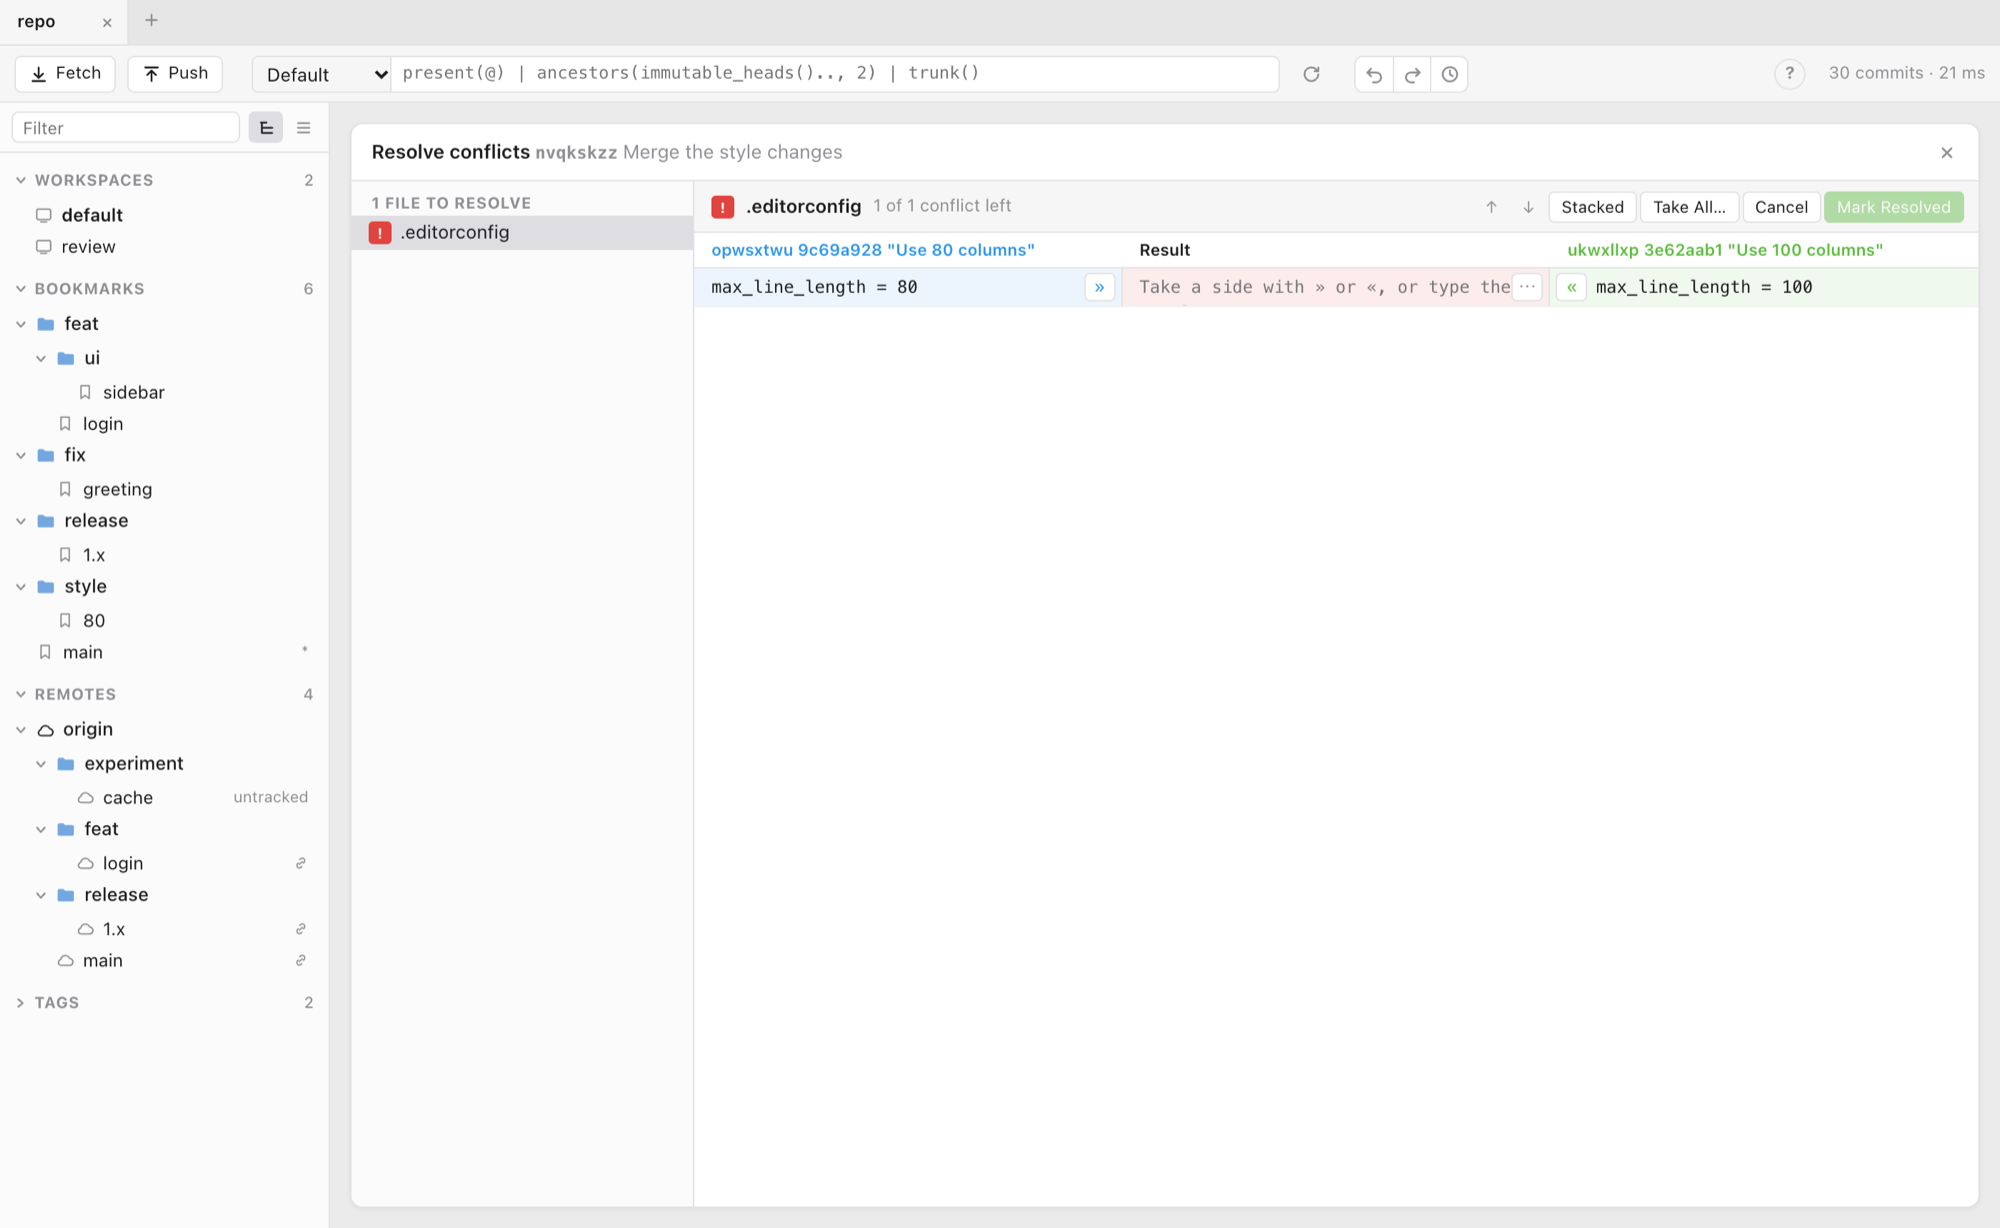
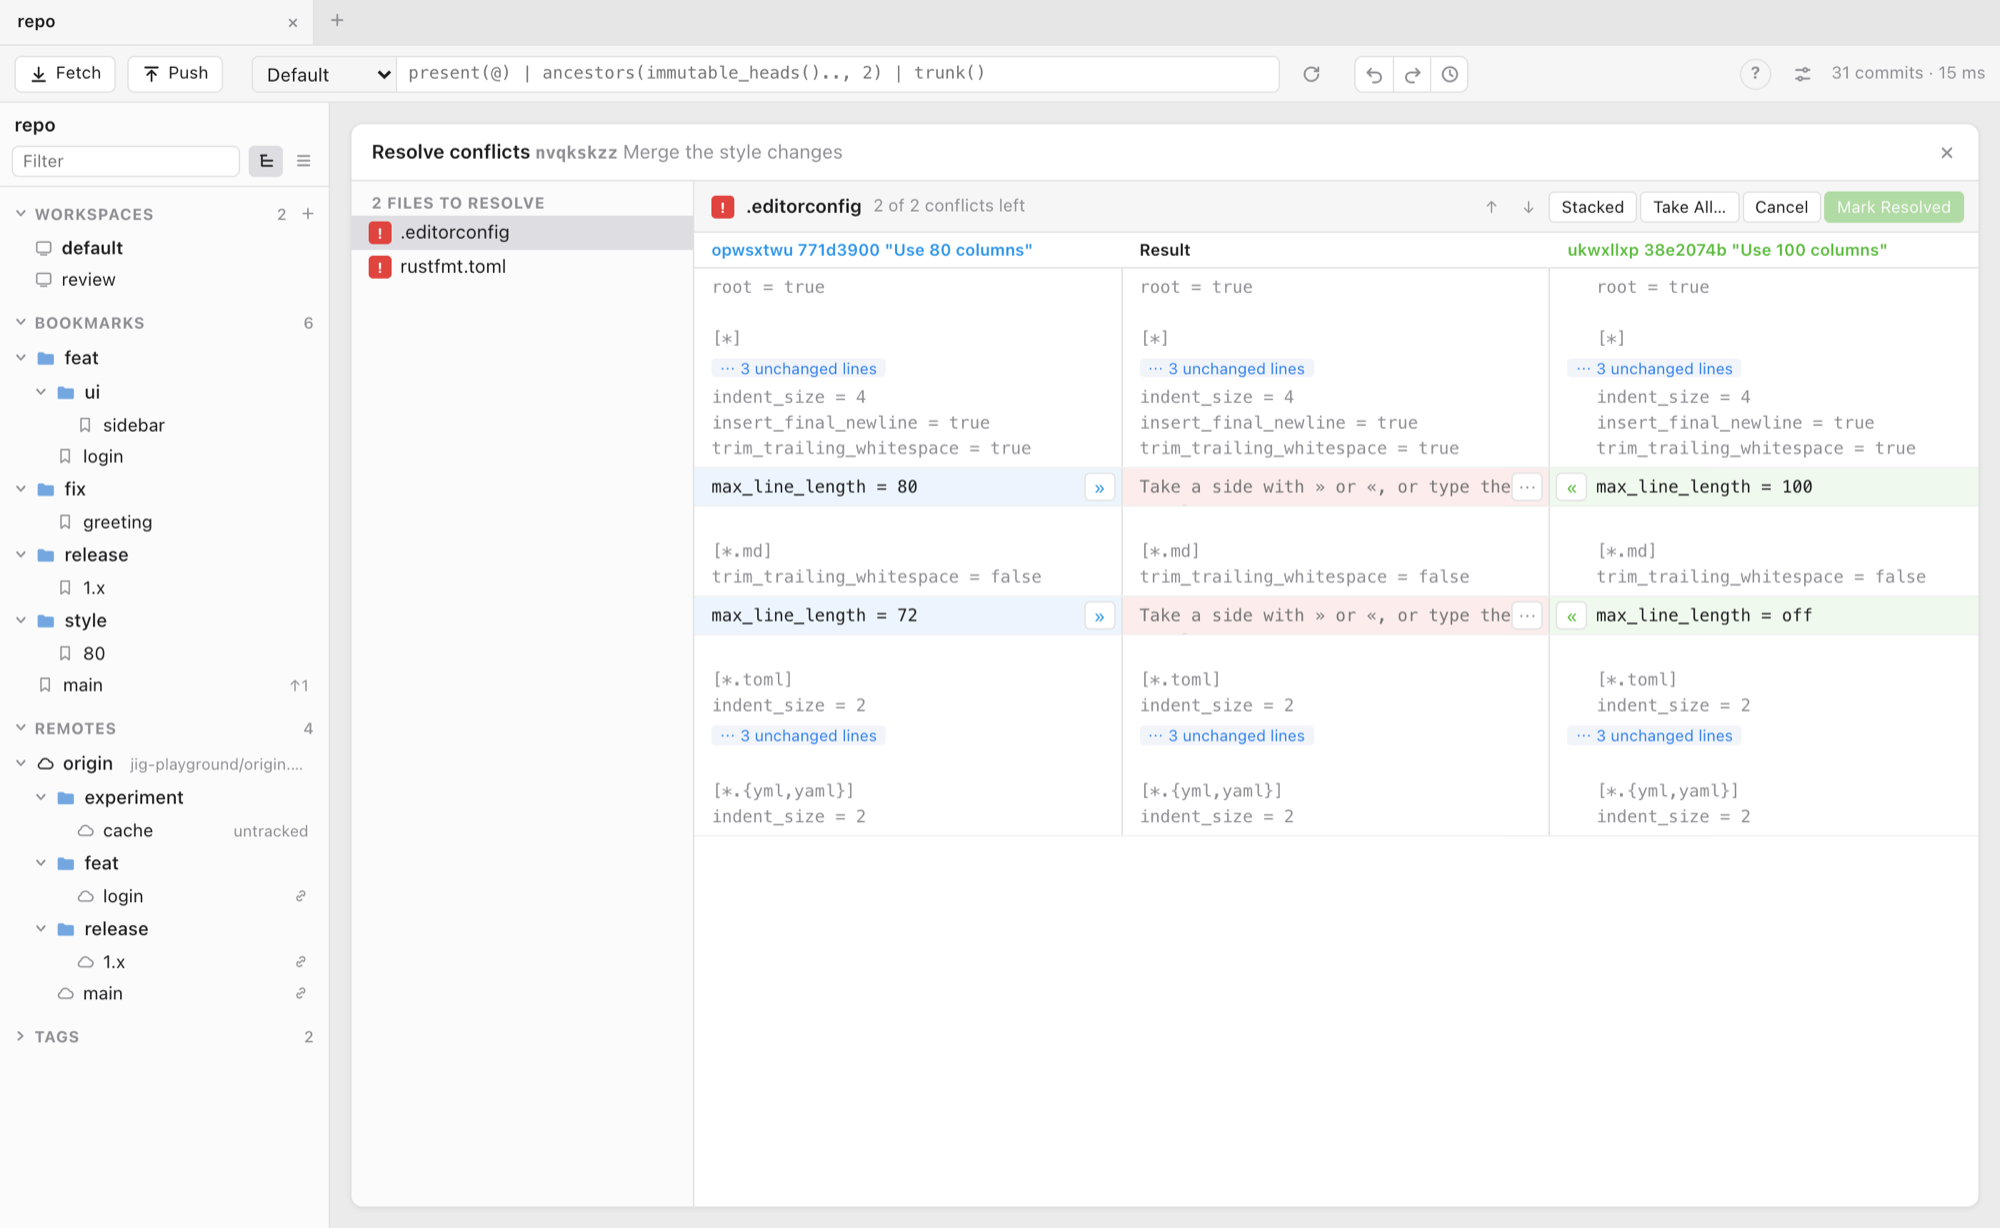
docs: update screenshots and developer docs

diff --git a/DEVELOPMENT.md b/DEVELOPMENT.md
@@ -1,24 +1,30 @@
 # Development
 
+Jig is developed and released on macOS. The backend keeps its macOS-only pieces (the Dock menu, opening folders from Finder) behind `cfg(target_os = "macos")`, so it should build on Linux and Windows too, but those builds aren't tested.
+
 ## Prerequisites
 
 - Rust (2024 edition) and Node
 - `jj` 0.40 — `jj-lib` and `jj-cli` are pinned to the installed CLI so on-disk repo formats agree
+- Tauri's system dependencies for your platform; see [Tauri's prerequisites](https://v2.tauri.app/start/prerequisites/)
+  - **macOS:** the Xcode Command Line Tools
+  - **Linux:** WebKitGTK 4.1 and friends, e.g. on Debian/Ubuntu `libwebkit2gtk-4.1-dev build-essential curl wget file libxdo-dev libssl-dev libayatana-appindicator3-dev librsvg2-dev`
+  - **Windows:** the Microsoft C++ Build Tools and WebView2 (already installed on Windows 10 1803+ and 11)
 
 ## Layout
 
 - `src/` — the frontend, in Svelte 5 and TypeScript, built with Vite; see [Frontend](#frontend)
 - `src-tauri/src/` — Rust backend: log loading and lane layout (`repo.rs`, `layout.rs`), diffs (`diff.rs`), conflicts (`conflict.rs`), and repository changes run through the user's `jj` (`jj_cli.rs`)
 - `src-tauri/examples/` — `fixture` and `dump` helpers for working without the app
-- `scripts/` — playground repo, benchmark and screenshot helpers
+- `scripts/` — playground repo, benchmark and screenshot helpers. These are macOS only for now.
 
 ## Frontend
 
 - Components are in `src/components/`. `App.svelte` is the window and its tabs, `RepoView.svelte` one repository, with `Sidebar`, `Details`, `OpLog`, `Resolve` and the dialogs under them.
-- State and commands live in classes in `.svelte.ts` files, which components read: `Repo` (`repo.svelte.ts`) for a repository, `DetailsPanel` (`details.svelte.ts`) for the details panel, and the tabs in `tabs.svelte.ts`. Their fields are `$state`, so changing one redraws what shows it.
-- Data from the backend (logs, diffs, trees) is `$state.raw`: it's replaced whole, never changed in place, so Svelte doesn't make it deeply reactive. That matters on large repos.
+- State and commands live in classes in `.svelte.ts` files, which components read: `Repo` (`repo.svelte.ts`) for a repository, `DetailsPanel` (`details.svelte.ts`) for the details panel, and the tabs in `tabs.svelte.ts`.
+- Data from the backend (logs, diffs, trees) is `$state.raw`: it's replaced whole, never changed in place, so Svelte doesn't make it deeply reactive.
 - Two hot paths aren't components, and are drawn directly into an element: the graph's rows (`rows.ts` and `graph.ts`, drawn by `Repo`, only those in view) and the lines of a diff or file (`diffview.ts`, drawn by `VirtualLines` in `virtual.ts`). They build markup as strings, so every piece of text from a repository goes through `escapeHtml` (`format.ts`); for new string-built markup, prefer the `html` template in `html.ts`, which escapes what's interpolated, with `setHtml`. Run the [benchmark](#benchmark) before and after changing them.
-- Styles are global, in `src/styles.css`; components use its class names.
+- Styles are global, in `src/styles.css`; components use its class names. This will be refactored later.
 - `npm run check` runs `svelte-check`; `npm run build` runs it too and fails on warnings.
 
 ## Running the app
@@ -31,13 +37,19 @@ npm install
 npm run tauri dev
 ```
 
-Jig opens a folder macOS hands it (`open -a`, a Dock drop), then the repo given as its first argument, then `$JIG_REPO`, then the current directory. Under `tauri dev` the environment variable is easiest:
+If you want to open a repo by default you can set a development repo path variable (in PowerShell, `$env:JIG_REPO="C:\path\to\repo"` first):
 
 ```bash
 JIG_REPO=/path/to/repo npm run tauri dev
 ```
 
-Build the `.app` and `.dmg` (in `src-tauri/target/release/bundle/`) for a release with:
+## Release builds
+
+Bundles are written to `src-tauri/target/release/bundle/`.
+
+### macOS
+
+`tauri.conf.json` sets the bundle targets to `app` and `dmg`, so this builds the `.app` and `.dmg`:
 
 ```bash
 npm run tauri build
@@ -52,6 +64,20 @@ CI=true npm run tauri build
 If a build is interrupted, its image can stay mounted and break the next one; `hdiutil info` lists it and `hdiutil detach` ejects it.
 
 `bundle.macOS.signingIdentity` is `"-"` so the bundle gets an ad-hoc signature carrying its identifier, `dev.wcrd.jig`. Without it the app only has the linker's signature, whose identifier is `jig-<hash>`. macOS then never matches the app to its Local Network permission, and fetches and pushes to remotes on the LAN fail with "No route to host".
+
+### Linux and Windows
+
+The configured targets are macOS-only, so name the bundles to build instead. On Linux:
+
+```bash
+npm run tauri build -- --bundles deb,appimage
+```
+
+On Windows (`msi` needs the WiX Toolset; `nsis` doesn't):
+
+```bash
+npm run tauri build -- --bundles nsis
+```
 
 ## Playground repo
 
@@ -95,14 +121,14 @@ Then run it before and after a change and compare the medians it prints:
 node scripts/bench.mjs --runs 5 --label before --out before.json
 ```
 
-Chrome isn't the WebKit view the app runs in, so treat the numbers as relative.
+Chrome isn't the webview the app runs in (WebKit on macOS and Linux, WebView2 on Windows), so treat the numbers as relative.
 
 ## Screenshots
 
 The README screenshots come from the browser preview with the playground fixture, captured by headless Chrome. With `npm run dev` running:
 
 ```bash
-node scripts/screenshots.mjs docs/screenshots light '[{"click":"*","text":"Sidebar: add items"},{"click":".file-list .tree-row.file","text":"sidebar.rs"},{"shot":"main"},{"click":"*","text":"Merge the style changes"},{"click":"button","text":"Resolve…"},{"wait":500},{"shot":"resolve"},{"eval":"document.dispatchEvent(new KeyboardEvent(\"keydown\",{key:\"Escape\",bubbles:true}))"},{"click":"[data-ref=oplog-button]"},{"wait":500},{"shot":"oplog"}]'
+node scripts/screenshots.mjs docs/screenshots light '[{"click":"*","text":"Sidebar: add items"},{"click":".file-list .tree-row.file","text":"sidebar.rs"},{"shot":"main"},{"click":"*","text":"lock out repeated failures"},{"click":"[data-action=tree]"},{"click":".file-list .tree-row.file","text":"login.rs"},{"click":"[data-ref=full-diff-enter]"},{"wait":500},{"shot":"diff"},{"eval":"document.dispatchEvent(new KeyboardEvent(\"keydown\",{key:\"Escape\",bubbles:true}))"},{"click":"*","text":"Merge the style changes"},{"click":"button","text":"Resolve…"},{"wait":500},{"shot":"resolve"},{"eval":"document.dispatchEvent(new KeyboardEvent(\"keydown\",{key:\"Escape\",bubbles:true}))"},{"click":"[data-ref=oplog-button]"},{"wait":500},{"shot":"oplog"}]'
 ```
 
 Shots are 2× scale (2800×1720); the committed copies are downscaled to 2000px wide with `sips -Z 2000`.

diff --git a/README.md b/README.md
@@ -9,8 +9,8 @@ Inspired by `jjui` and `Fork (git)`.
 ### Why Jig
 
 For 90% of my `jj` workflows `jjui` is my go to tool. But there are two things that it doesn't do for me:
-1. Sometimes when I'm working on multiple workspaces / branches I just need to ***see*** the graph visually and interactively
-2. I still suck at resolving conflicts; this tool provides a nice merge gui
+1. Sometimes when I'm working on multiple workspaces / branches I just need to ***see*** the full graph visually and interactively
+2. I still suck at resolving conflicts; this tool provides a nice conflict resolution GUI
 
 While I built this for the 2 reasons above, `jig` also supports most of the other `jj` operations and uses the same keybindings as `jjui`.
 
@@ -37,9 +37,17 @@ While I built this for the 2 reasons above, `jig` also supports most of the othe
 
 ![Operation log](docs/screenshots/oplog.png)
 
-## Install
+### Full-size diff
 
-Download the `.dmg` from the [latest release](../../releases/latest) and drag Jig to Applications. Jig runs repository changes through your `jj`, so it needs `jj` 0.40 on your `PATH`.
+Press `d` on the Changes tab to fill the window with the diff. `↑` / `↓` step through files, `j` / `k` through commits, and `Esc` goes back.
+
+![Full-size diff](docs/screenshots/diff.png)
+
+## Install
+Jig runs repository changes through your `jj`, so it needs `jj` 0.40 on your `PATH`.
+
+### macOS
+Download the `.dmg` from the [latest release](../../releases/latest) and drag Jig to Applications. 
 
 Jig isn't notarized yet, so macOS will refuse to open it the first time. Clear the quarantine flag with:
 
@@ -53,4 +61,5 @@ To open a repo from a terminal, or into a Jig that's already running, run the fo
 open . -a Jig
 ```
 
-To build from source for other systems, see [DEVELOPMENT.md](DEVELOPMENT.md).
+### Other systems
+To build from source for macOS and other systems, see [DEVELOPMENT.md](DEVELOPMENT.md).
